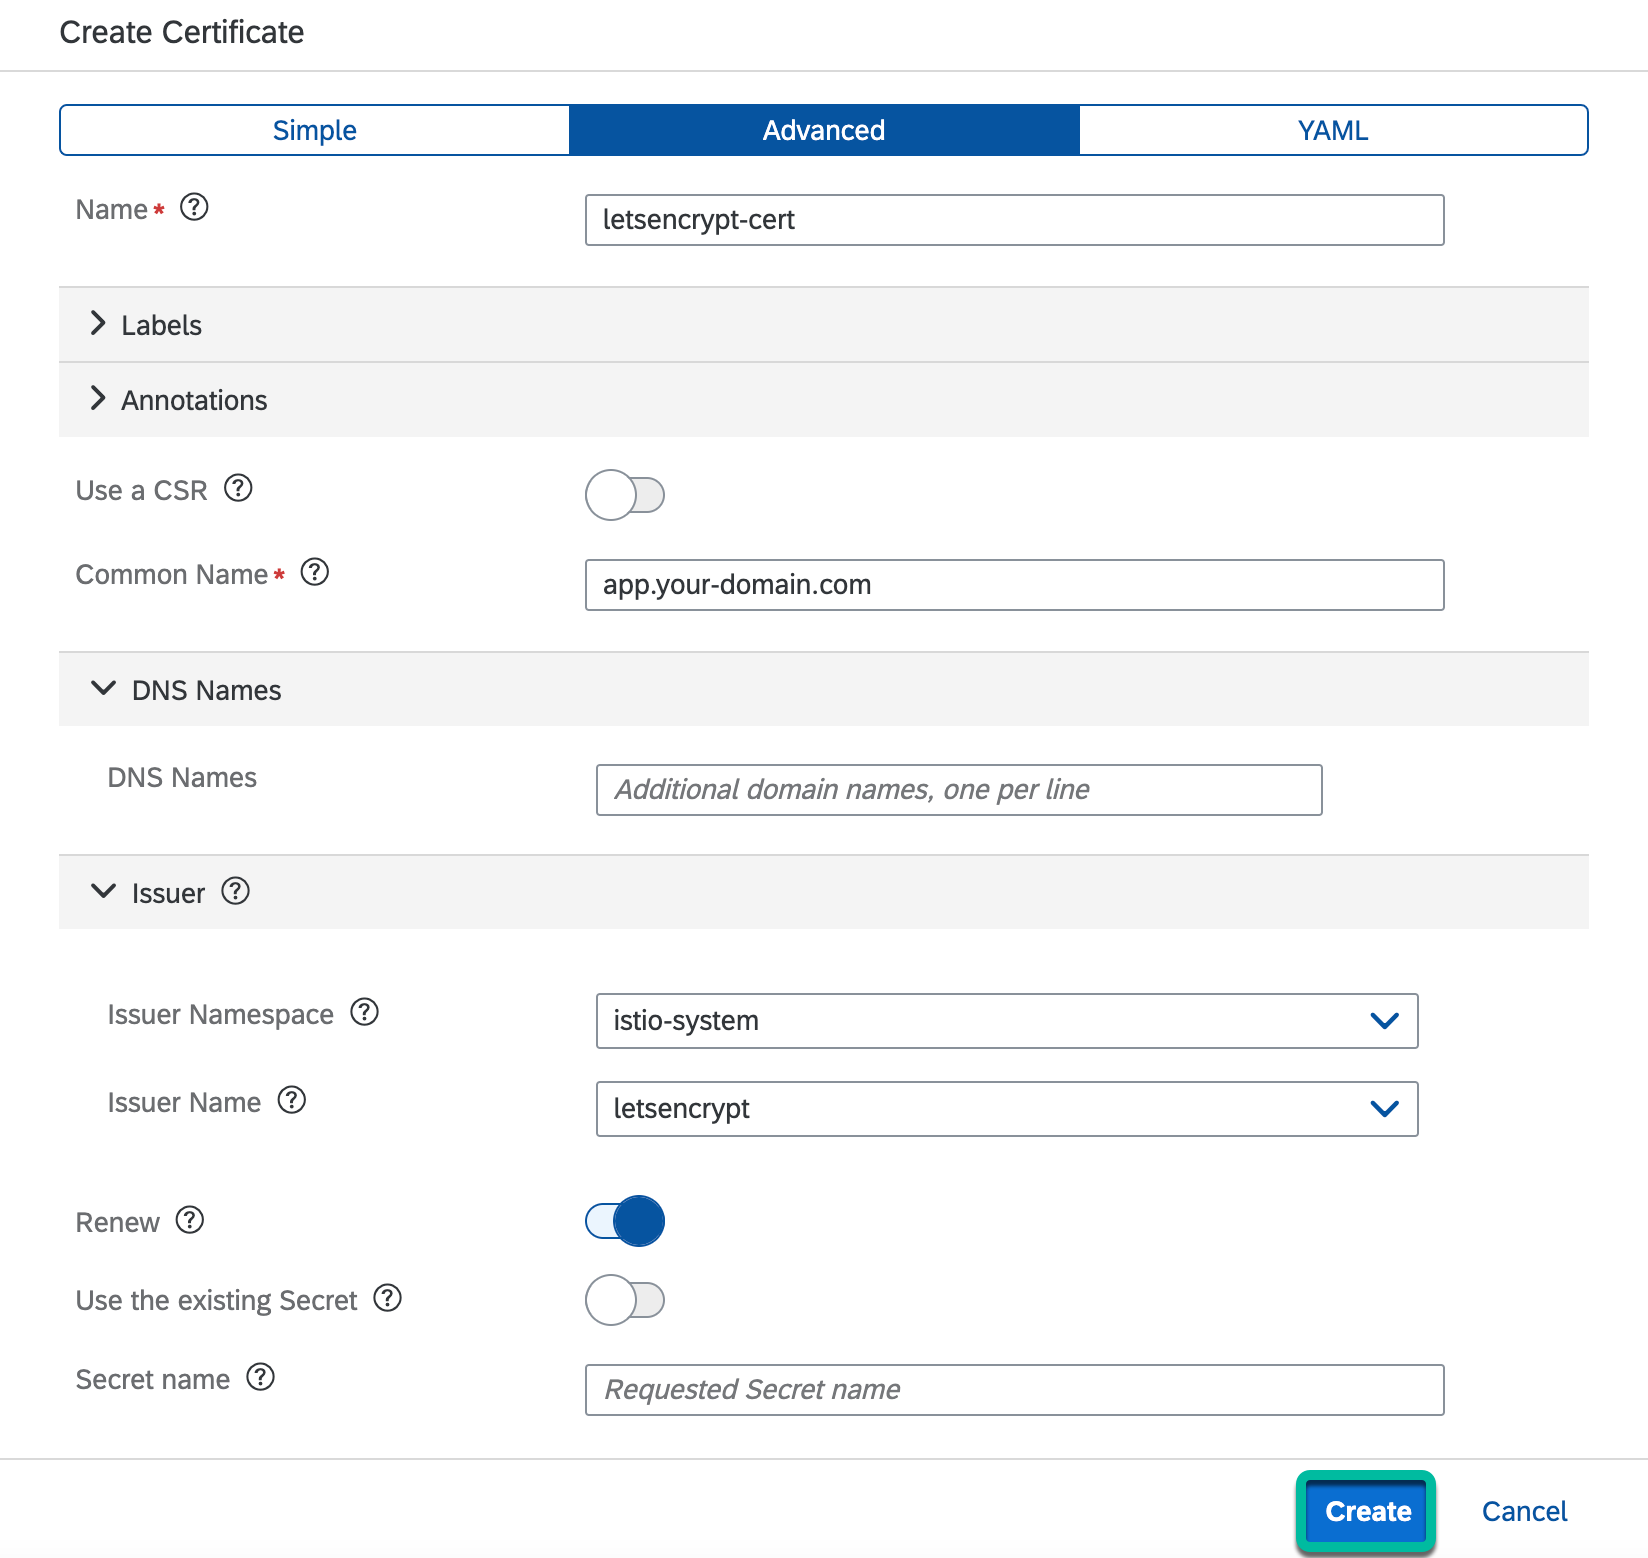
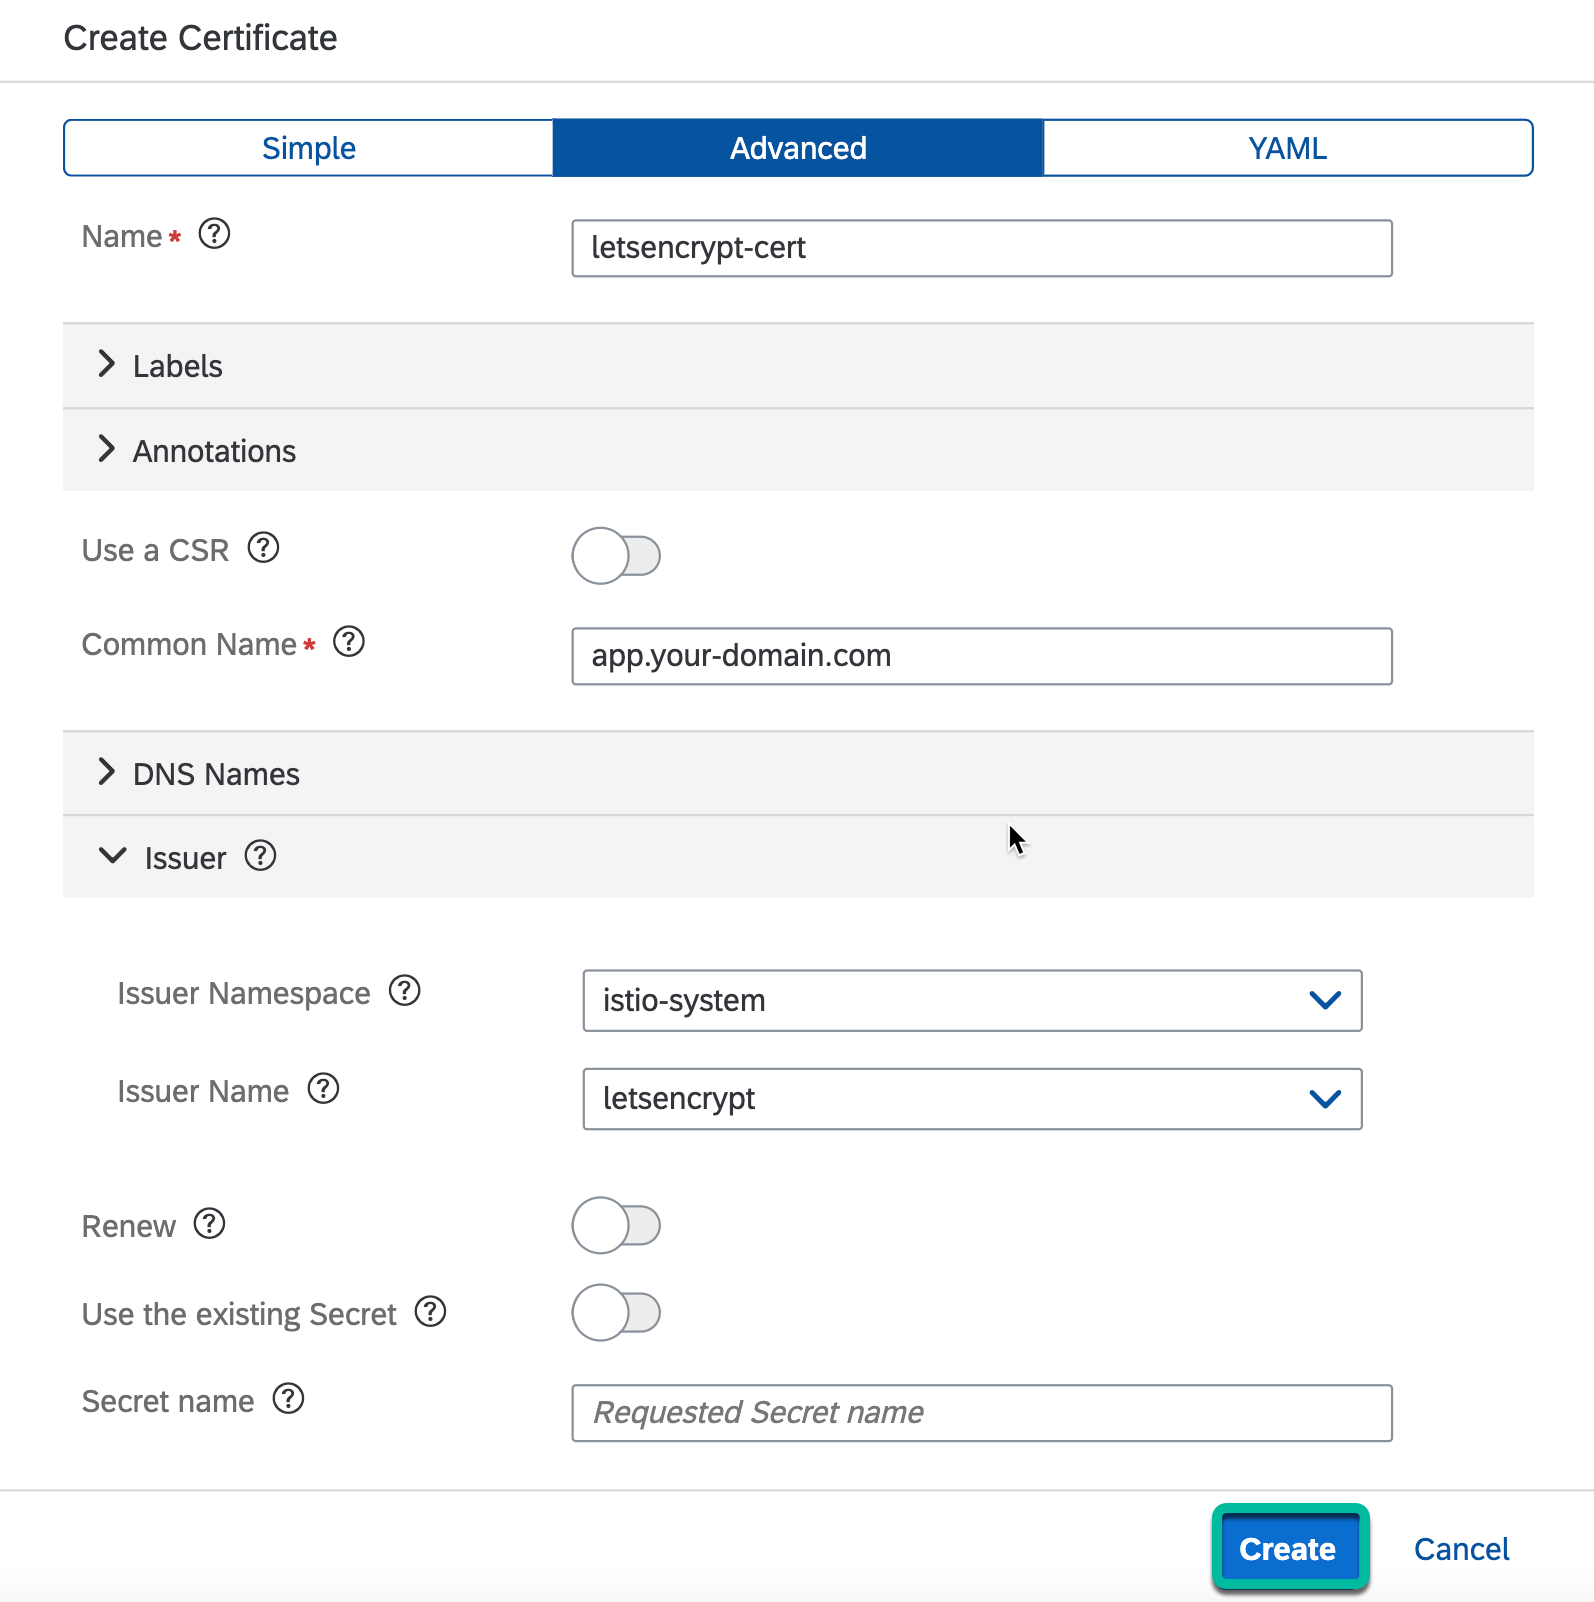
updated docs

diff --git a/nextjs-app-with-kyma-eventing/docs/setup/step-7.md b/nextjs-app-with-kyma-eventing/docs/setup/step-7.md
@@ -138,7 +138,7 @@ After the Issuer has been created, you can use it to create a Certificate in the
 
 1. Select the `istio-system` namespace in the top-right corner of the Kyma console.
 
-2. Go to `Configuration` -> `Certificates`. Select `Create Certificate` and select the `Advanced` tab. Then, enter the following values and select `Create`.  Use your domain instead of `app.your-domain.com`.
+2. Go to `Configuration` -> `Certificates`. Select `Create Certificate` and select the `Advanced` tab. Then, enter the following values. For `Common Name` enter your primary domain name instead of `app.your-domain.com`. For `Issuer Namespace` select `istio-system` and for `Issuer Name` select the Issuer created in the previous step. Then, click `Create`.
 
     ![Create a Certificate](../assets/setup-step-7/12.png)
 
